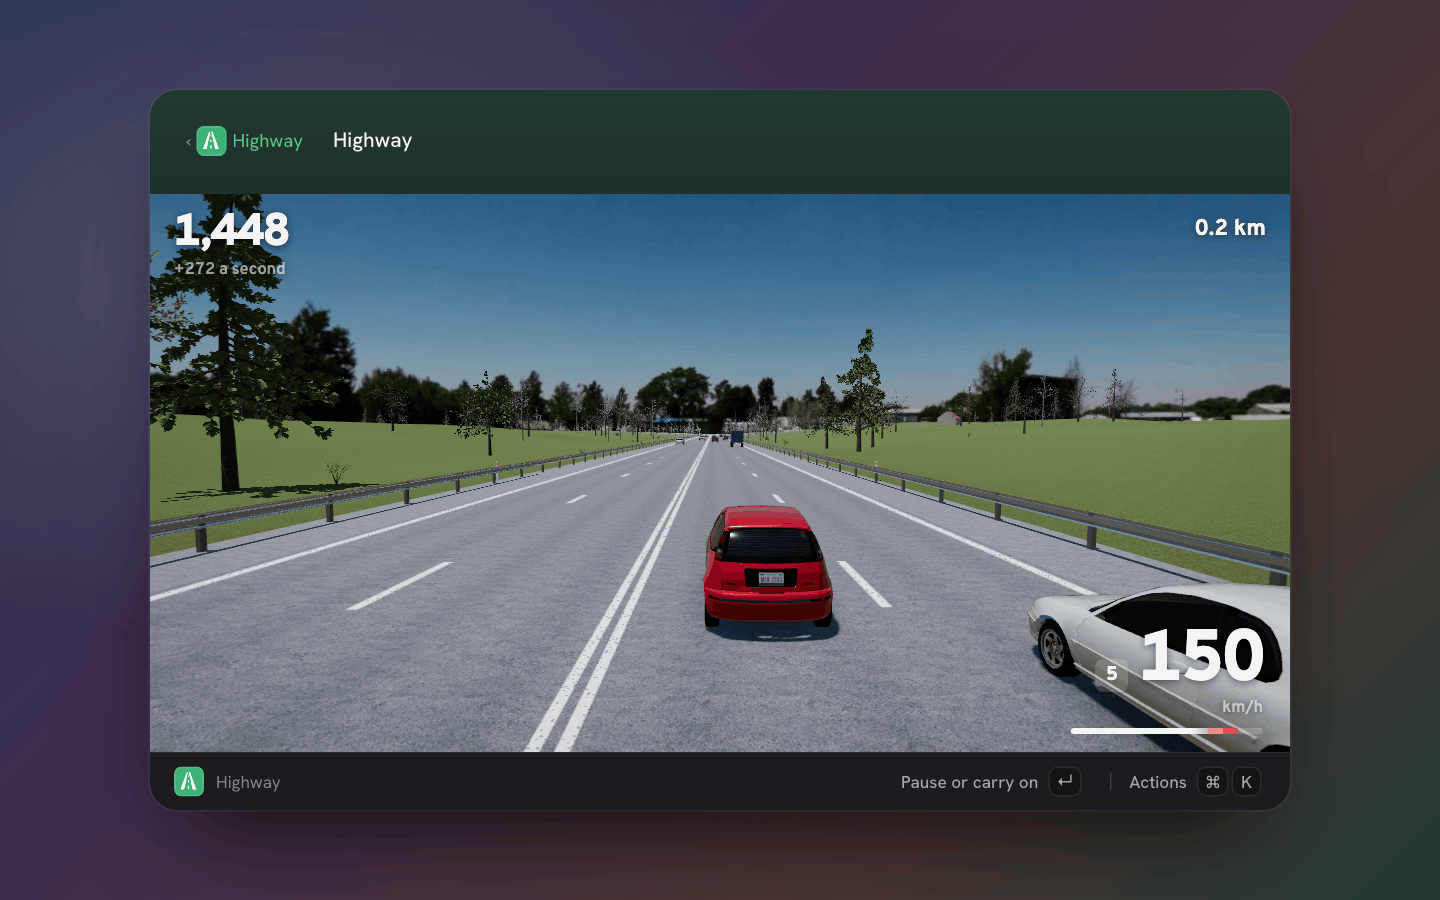
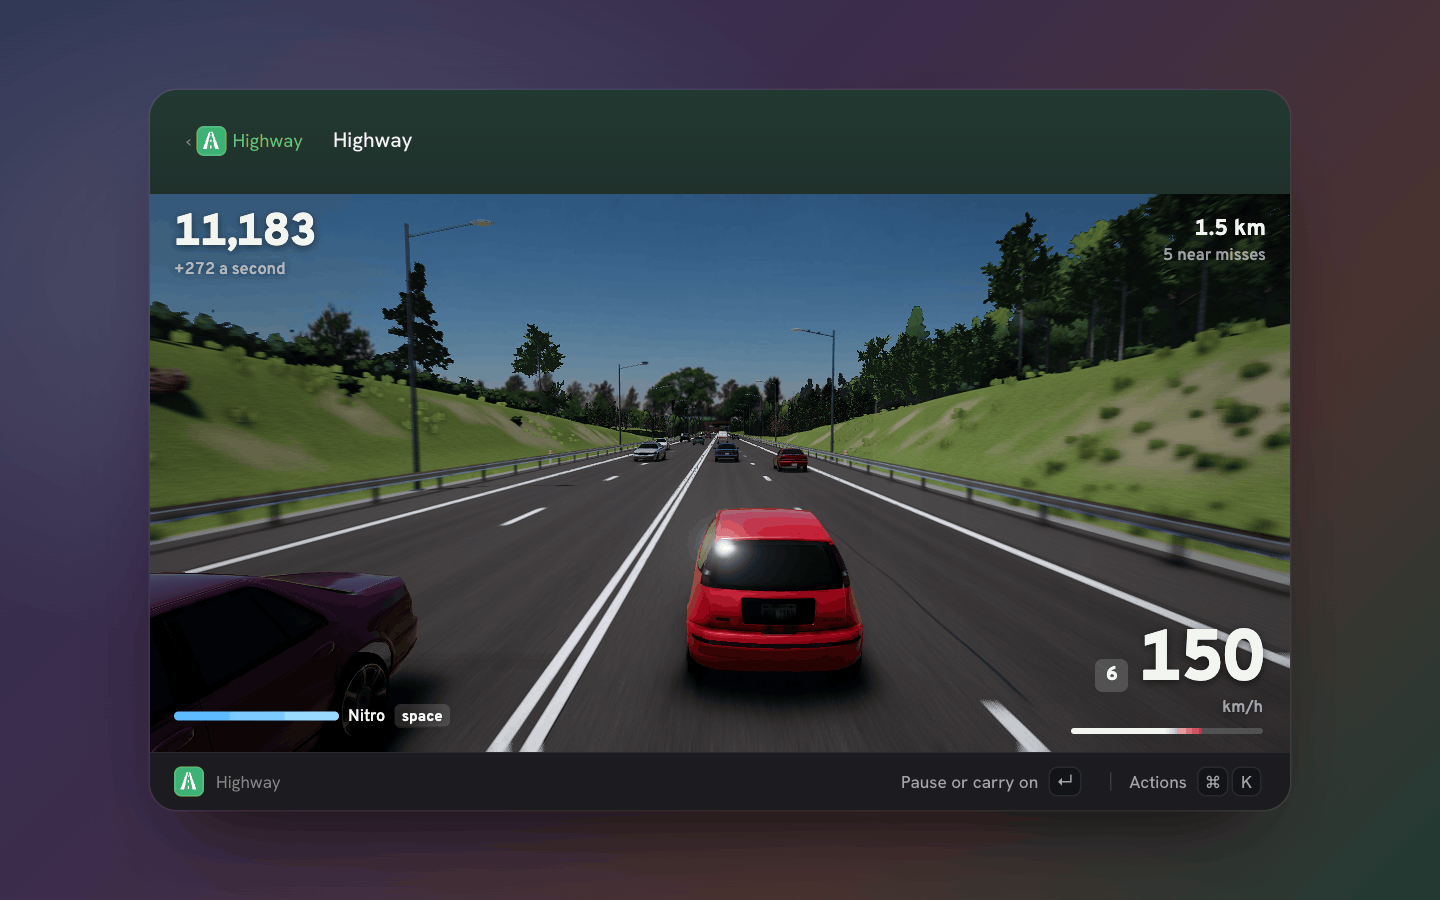
highway 1.0: the loading sign lifts over a finished road (the land to the horizon built, every texture on the GPU, frames drawn); Start over (⌘K) wipes progress and keeps the settings; the store block for the finished game (modes, levels, missions, nitro, resume); staged scenes for the store can't c

diff --git a/extensions/highway/surface/main.ts b/extensions/highway/surface/main.ts
@@ -65,8 +65,14 @@ async function road(demo: boolean) {
   if (demo) run.veh.launch((105 / 3.6) * FEEL.pace);
   run.settle();
   chase.reset(run.pose);
+  // lift the sign over a finished picture: the land to the horizon built, every texture on the GPU, a few frames drawn
+  world.land.ready(run.veh.z);
+  r.upload(world.scene);
+  await frames(3);
   veil(false);
 }
+/** `n` frames drawn, or 700 ms, whichever comes first (a page drawn in software, or not shown, draws slowly or not at all). */
+const frames = (n: number) => new Promise<void>((done) => { const tick = () => (--n <= 0 ? done() : requestAnimationFrame(tick)); requestAnimationFrame(tick); setTimeout(done, 700); });
 
 // what the run tells us
 let flash = 0, slowmo = 0;
@@ -499,7 +505,8 @@ let acc = 0, last = performance.now(), t = 0, lastGear = 1;
 
 /** The garage's car drives itself: the lane with the most room, steered smoothly into. */
 let autoLane = 1;
-function autopilot(target = 108): Input {
+/** The garage's driver, and a staged scene's (`bold`: it holds its speed, changes lanes sooner and never brakes; nothing touches in a scene). */
+function autopilot(target = 108, bold = false): Input {
   const rn = run!, v = rn.veh, L = rn.layout;
   // seconds until it would reach the car ahead in a lane (Infinity when the lane is clear), or -1 when
   // a car is alongside in it, which rules that lane out
@@ -515,13 +522,13 @@ function autopilot(target = 108): Input {
     return t;
   };
   const here = ttc(autoLane);
-  if (here < 3) for (const l of [autoLane - 1, autoLane + 1]) if (l >= 0 && l < L.lanes && ttc(l) > Math.max(here, ttc(autoLane)) + 0.5) autoLane = l;
+  if (here < (bold ? 4.5 : 3)) for (const l of [autoLane - 1, autoLane + 1]) if (l >= 0 && l < L.lanes && ttc(l) > Math.max(here, ttc(autoLane)) + 0.5) autoLane = l;
   // the key sets how fast the car crosses: a sideways speed that shrinks as the lane's centre comes
   // near, so it moves over decisively and settles instead of weaving
   const dx = laneX(L, autoLane) - v.x;
   const across = 5.5 * FEEL.pace + 0.07 * v.u; // what full steering gives at this speed (game/vehicle.ts)
   const steer = THREE.MathUtils.clamp(THREE.MathUtils.clamp(dx * 2.2, -9, 9) / across, -1, 1);
-  const boxed = ttc(autoLane) < 1.3;
+  const boxed = !bold && ttc(autoLane) < 1.3;
   return { throttle: !boxed && v.kmh / FEEL.pace < target ? 1 : 0, brake: boxed ? 1 : 0, steer };
 }
 
@@ -535,7 +542,7 @@ function frame() {
   if (slowmo > 0) { slowmo -= dt; dt *= 0.25; if (slowmo <= 0 && state === "over") results(); }
   t += dt;
   acc += dt;
-  const inp = state === "garage" ? autopilot() : state === "run" || state === "over" ? (scene ? autopilot(scene.speed ?? 170) : input()) : { throttle: 0, brake: 0.2, steer: 0 };
+  const inp = state === "garage" ? autopilot() : state === "run" || state === "over" ? (scene ? autopilot(scene.speed ?? 170, true) : input()) : { throttle: 0, brake: 0.2, steer: 0 };
   const t0 = performance.now();
   while (acc >= STEP) { run.step(STEP, inp); acc -= STEP; }
   const t1 = performance.now();
@@ -570,10 +577,23 @@ pal.onAction((id: string) => {
   if (id === "pause") { if (state === "run") pause(); else if (state === "paused") resume(); }
   if (id === "mute") onKey("m");
   if (id === "give-up" && (state === "run" || state === "paused")) giveUp();
+  if (id === "start-over" && state !== "loading") startOver();
 });
 pal.onHidden(() => { if (state === "run") pause(); sound.suspend(); keepRun(); });
 document.addEventListener("visibilitychange", () => { if (document.hidden) keepRun(); });
 addEventListener("pagehide", keepRun);
+
+/** A fresh save, keeping the settings, and back to the garage. */
+async function startOver() {
+  if (trial || scene) return;
+  const settings = save.settings;
+  save = fresh();
+  save.settings = settings;
+  ended = null; crashInfo = null; done.clear();
+  pal.storage.set("run", null).catch(() => undefined);
+  await garage(); // it deals the missions and saves
+  hint("Started over");
+}
 
 /** A run being driven is kept in storage while the page is hidden, so closing pal (which may drop the page) loses nothing. */
 type Kept = Packed & { location: string; done: number[] };
@@ -596,6 +616,9 @@ async function carryOn(k: Kept) {
 pal.onShown(() => { if (state !== "paused") sound.start(); last = performance.now(); });
 pal.onSettings((s: Record<string, unknown>) => { if (typeof s.volume === "number") { save.settings.sound = s.volume / 100; sound.setVolume(muted ? 0 : save.settings.sound); } });
 
+// `?dev`: the page's state on window.hw, so a headless check can look inside
+if (q.has("dev")) Object.assign(window, { hw: { get run() { return run; }, get save() { return save; }, get state() { return state; } } });
+
 /** Play a staged scene: set the place and car, then the garage, a run already going, or its end. */
 async function stage(sc: Scene) {
   if (sc.location) save.location = sc.location;
@@ -611,8 +634,9 @@ async function stage(sc: Scene) {
   await drive();
   // the run, played forward by the driver, then shown live
   run!.veh.launch(((sc.speed ?? 170) / 3.6) * 0.9 * FEEL.pace);
-  run!.director.time = 160; // a few minutes in: the traffic is up to strength
-  for (let i = 0; i < (sc.warm ?? 6) * 120; i++) { run!.step(1 / 120, autopilot(sc.speed ?? 170)); if (i % 60 === 0) run!.draw(1 / 2); }
+  run!.director.time = 50; // a minute in: busy, with the gaps a driver at speed threads
+  run!.drive.ghost = true; // played forward and on while the picture is taken: no crash may end it
+  for (let i = 0; i < (sc.warm ?? 6) * 120; i++) { run!.step(1 / 120, autopilot(sc.speed ?? 170, true)); if (i % 60 === 0) run!.draw(1 / 2); }
   run!.settle();
   chase.reset(run!.pose);
   if (sc.show === "results") { crashInfo = sc.crash ?? null; results(); }
@@ -647,9 +671,9 @@ async function stage(sc: Scene) {
   builtFor = `${loc.id}/${save.mode}`;
   await preloadTraffic(world, (sc) => r.warm(sc), (f) => (($("loading").querySelector("em") as HTMLElement).style.width = `${Math.round(f * 100)}%`));
   chase.view = viewOf(save);
+  frame(); // the loop runs behind the sign, so it lifts over a drawn road
   if (scene) await stage(scene);
   else if (kept) await carryOn(kept);
   else if (q.has("drive")) await drive();
   else await garage();
-  frame();
 })();

diff --git a/extensions/highway/fixture.ts b/extensions/highway/fixture.ts
@@ -9,10 +9,10 @@ import { pinClock, writeFixture } from "../../app/scripts/fixture-kit.ts";
 import { fresh, type Save, type Scene } from "./game/meta.ts";
 import manifest from "./pal.json" with { type: "json" };
 
-/** A save a few hours in: some cash, a handful of cars with upgrades, four places open. */
+/** A save a few hours in: some cash, a handful of cars with upgrades, level 14 (every mode and place open). */
 function lived(): Save {
   const s = fresh();
-  s.cash = 84250;
+  s.cash = 18400;
   const own = (id: string, paint: string, speed = 0, handling = 0, brakes = 0, nitro = 0) => { s.owned[id] = { upgrades: { speed, handling, brakes, nitro }, paint, paints: [paint] }; };
   own("compact-07", "#e8e6e0", 2, 1, 1);
   own("milano-95", "#c81d25", 3, 2, 2);
@@ -21,11 +21,11 @@ function lived(): Save {
   own("saba-v12-95", "#e85d04");
   s.car = "stinger-96";
   s.level = 14;
-  s.xp = 3200;
+  s.xp = 1100;
   s.missions = [
-    { kind: "misses", text: "Pass 22 cars closely in one run", target: 22, reward: { cash: 2750, xp: 2300 } },
-    { kind: "combo", text: "Reach a ×11 combo", target: 11, reward: { cash: 2750, xp: 2300 } },
-    { kind: "speed", text: "Reach 210 km/h", target: 210, reward: { cash: 2750, xp: 2300 } },
+    { kind: "misses", text: "Pass 22 cars closely in one run", target: 22, reward: { cash: 2050, xp: 500 } },
+    { kind: "combo", text: "Reach a ×11 combo", target: 11, reward: { cash: 2050, xp: 500 } },
+    { kind: "speed", text: "Reach 210 km/h", target: 210, reward: { cash: 2050, xp: 500 } },
   ];
   s.best = { endless: { score: 186420, distance: 14820, combo: 23, topSpeed: 281 }, twoway: { score: 98410, distance: 6210, combo: 12, topSpeed: 244 } };
   s.totals = { runs: 61, distance: 412000, misses: 2210, cash: 512000 };
@@ -37,7 +37,7 @@ const SCENES: Record<string, Scene> = {
   garage: { show: "garage", location: "dusk", mode: "endless", car: "saba-v12-95", paint: "#e85d04" },
   night: { show: "run", location: "night", mode: "endless", car: "thunderbolt-96", paint: "#1b3f8f", speed: 172, warm: 8 },
   twoway: { show: "run", location: "midday", mode: "twoway", car: "milano-95", paint: "#c81d25", speed: 150, warm: 5 },
-  results: { show: "results", location: "dusk", mode: "endless", car: "stinger-96", paint: "#d6421a", speed: 180, warm: 6, crash: { you: 214, them: 96, kind: "lct-3000-95", oncoming: false } },
+  results: { show: "results", location: "dusk", mode: "endless", car: "stinger-96", paint: "#d6421a", speed: 200, warm: 40, crash: { you: 214, them: 96, kind: "lct-3000-95", oncoming: false } },
 };
 
 pinClock();
@@ -48,11 +48,11 @@ try {
   writeFixture("highway", {
     palettes: Object.fromEntries(Object.entries(SCENES).map(([k, s]) => [k, palette(s)])),
     shots: {
-      "1-run": { palette: "run", keys: ["wait:14000"], caption: "196 km/h through countryside traffic in the Stinger '96, the drivers signalling and keeping their gaps" },
-      "2-garage": { palette: "garage", keys: ["wait:14000"], caption: "The garage: your car drives the road behind a sign where you choose it, paint it, upgrade it and pick the place" },
-      "3-night": { palette: "night", keys: ["wait:14000"], caption: "A night run: headlights on the road, tail lamps ahead, brake lights when a driver slows" },
-      "4-twoway": { palette: "twoway", keys: ["wait:14000"], caption: "Two-Way at high noon: the oncoming side pays three times, and touching it ends the run" },
-      "5-results": { palette: "results", keys: ["wait:14000"], caption: "The end of a run: what you hit and how fast, the score, the near misses and the cash it paid" },
+      "1-run": { palette: "run", keys: ["wait:30000"], caption: "196 km/h through countryside traffic in the Stinger '96, the drivers signalling and keeping their gaps" },
+      "2-garage": { palette: "garage", keys: ["wait:30000"], caption: "The garage: choose, paint and upgrade your car, pick the mode and place; your level, the next unlock and three missions beside it" },
+      "3-night": { palette: "night", keys: ["wait:30000"], caption: "A night run: headlights on the road, tail lamps ahead, brake lights when a driver slows" },
+      "4-twoway": { palette: "twoway", keys: ["wait:30000"], caption: "Two-Way at high noon: the oncoming side pays three times, and touching it ends the run" },
+      "5-results": { palette: "results", keys: ["wait:30000"], caption: "The end of a run: the pay counted up line by line, the XP toward your next level, and how far each mission got" },
     },
   });
   console.log("highway: 5 shots planned");

diff --git a/extensions/highway/game/drive.ts b/extensions/highway/game/drive.ts
@@ -45,6 +45,7 @@ export class Drive {
   over = false;
   scraping = 0;
   ended: End | null = null;
+  ghost = false; // nothing touches: a staged scene for the store's pictures
   // nitro: a bar near misses fill, burnt while it lasts
   nitro = 0; boosting = false; private wanted = false;
   // Time Attack: the clock and the next checkpoint (m on the dial); Speed Trap: the floor and time under it
@@ -183,8 +184,8 @@ export class Drive {
       }
     }
 
-    // contact
-    for (const n of this.traffic.cars) {
+    // contact (none for a staged run, which plays on while a picture is taken)
+    if (!this.ghost) for (const n of this.traffic.cars) {
       const nyaw = n.hit ? n.hit.yaw : n.oncoming ? Math.PI : 0;
       const c = collide({ x: v.x, z: v.z, yaw: v.yaw, w: this.size.x * 0.96, l: this.size.z * 0.98 }, { x: n.x, z: n.z, yaw: nyaw, w: n.width * 0.96, l: n.length * 0.98 });
       if (!c) continue;

diff --git a/extensions/highway/surface/render.ts b/extensions/highway/surface/render.ts
@@ -55,6 +55,14 @@ export class Renderer {
     this.finish.render(scene, {});
   }
 
+  /** Send every texture in the scene to the GPU now, so nothing draws late the first time it is seen. */
+  upload(scene: THREE.Scene) {
+    scene.traverse((o) => {
+      const m = (o as THREE.Mesh).material;
+      for (const mat of Array.isArray(m) ? m : m ? [m] : []) for (const v of Object.values(mat)) if ((v as THREE.Texture)?.isTexture) this.gl.initTexture(v as THREE.Texture);
+    });
+  }
+
   resize(w = innerWidth, h = innerHeight) {
     this.gl.setSize(w, h, false);
     this.finish.setSize(w, h);

diff --git a/extensions/highway/index.ts b/extensions/highway/index.ts
@@ -8,6 +8,7 @@ export const ACTIONS: Action[] = [
   { id: "pause", title: "Pause or carry on", shortcut: "p" },
   { id: "mute", title: "Sound on or off", shortcut: "m" },
   { id: "give-up", title: "End the run", style: "destructive", confirm: "End this run? What you earned so far is paid." },
+  { id: "start-over", title: "Start over", style: "destructive", confirm: "Start over from nothing? Your cars, cash, level and records are wiped; your settings stay." },
 ];
 
 export default {

diff --git a/extensions/highway/surface/terrain.ts b/extensions/highway/surface/terrain.ts
@@ -230,6 +230,11 @@ export class Land {
     fill(k.far, "far");
   }
 
+  /** Everything up to the horizon built now (behind the loading sign), not a step a frame. */
+  ready(z: number) {
+    do this.update(z); while (this.queue.length);
+  }
+
   update(z: number) {
     const first = Math.floor(z / CHUNK) - BEHIND;
     for (let c = first; c < first + this.slots.length; c++) {
